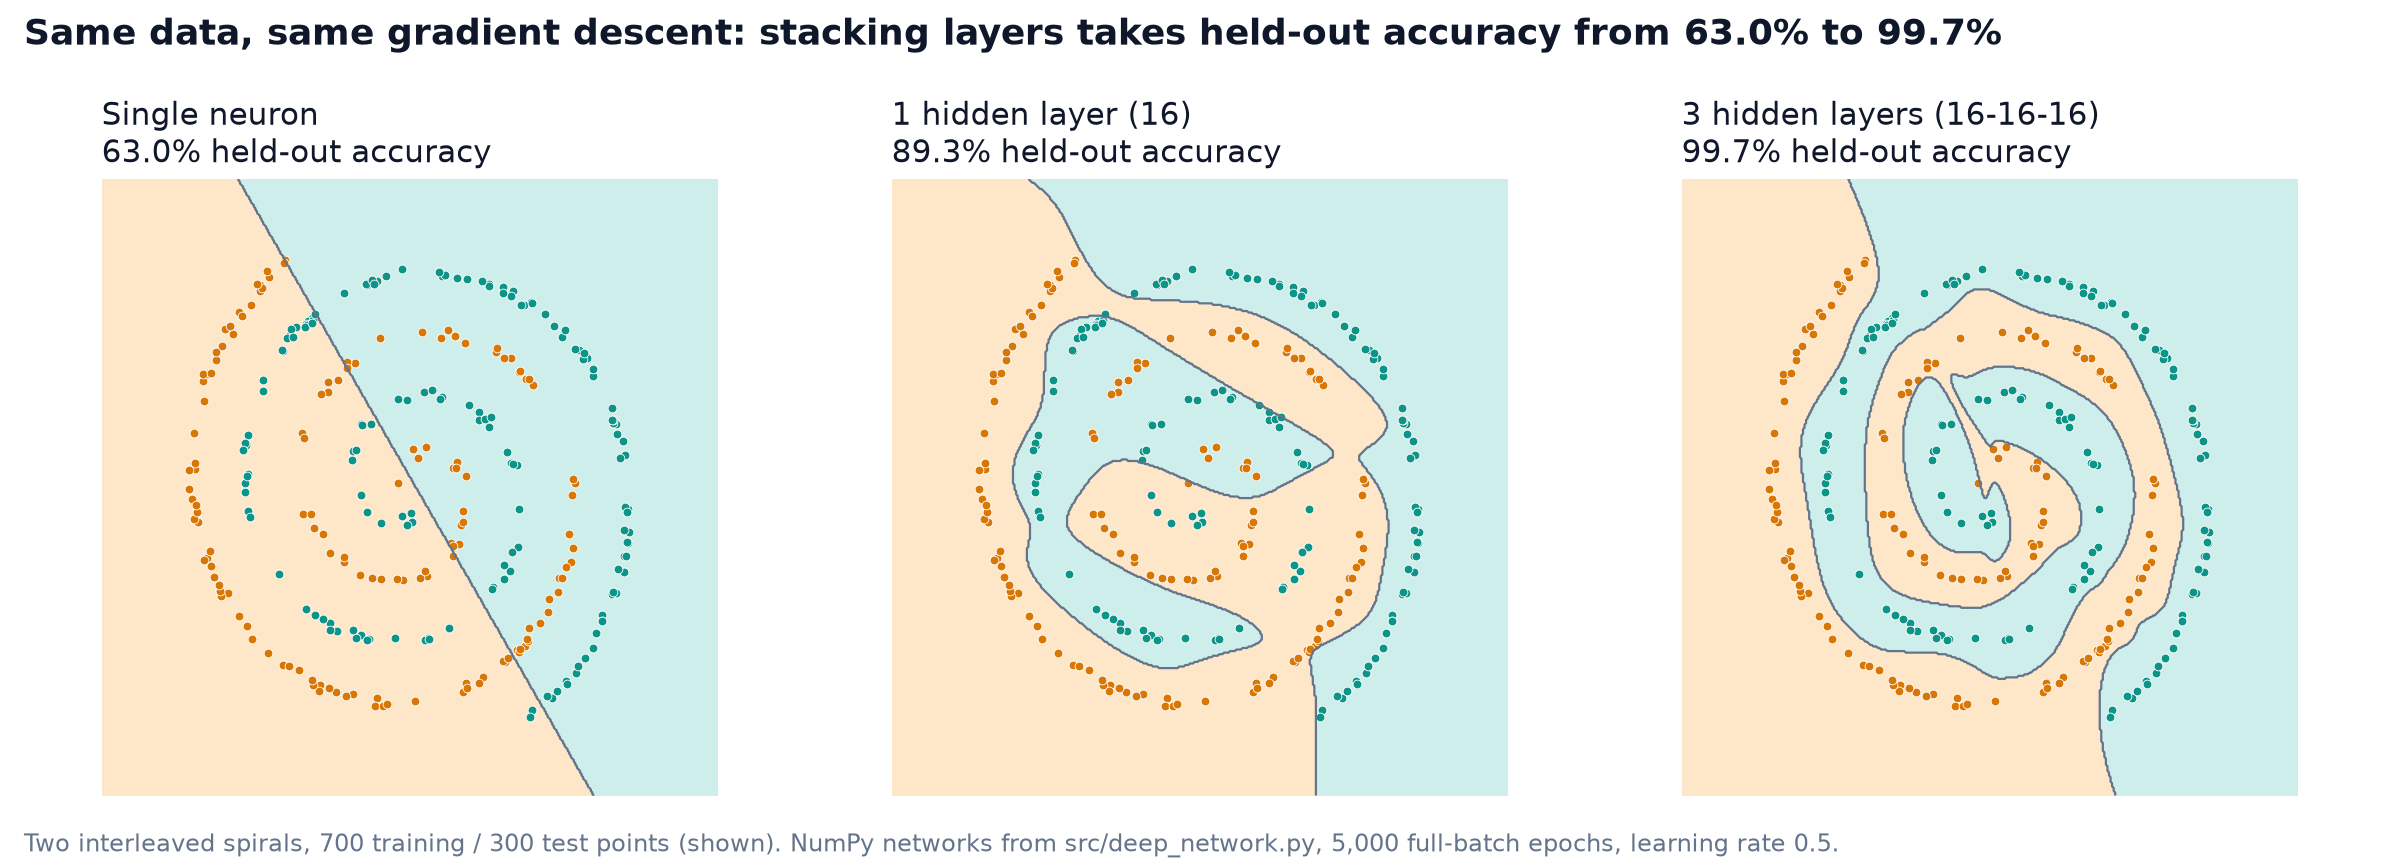
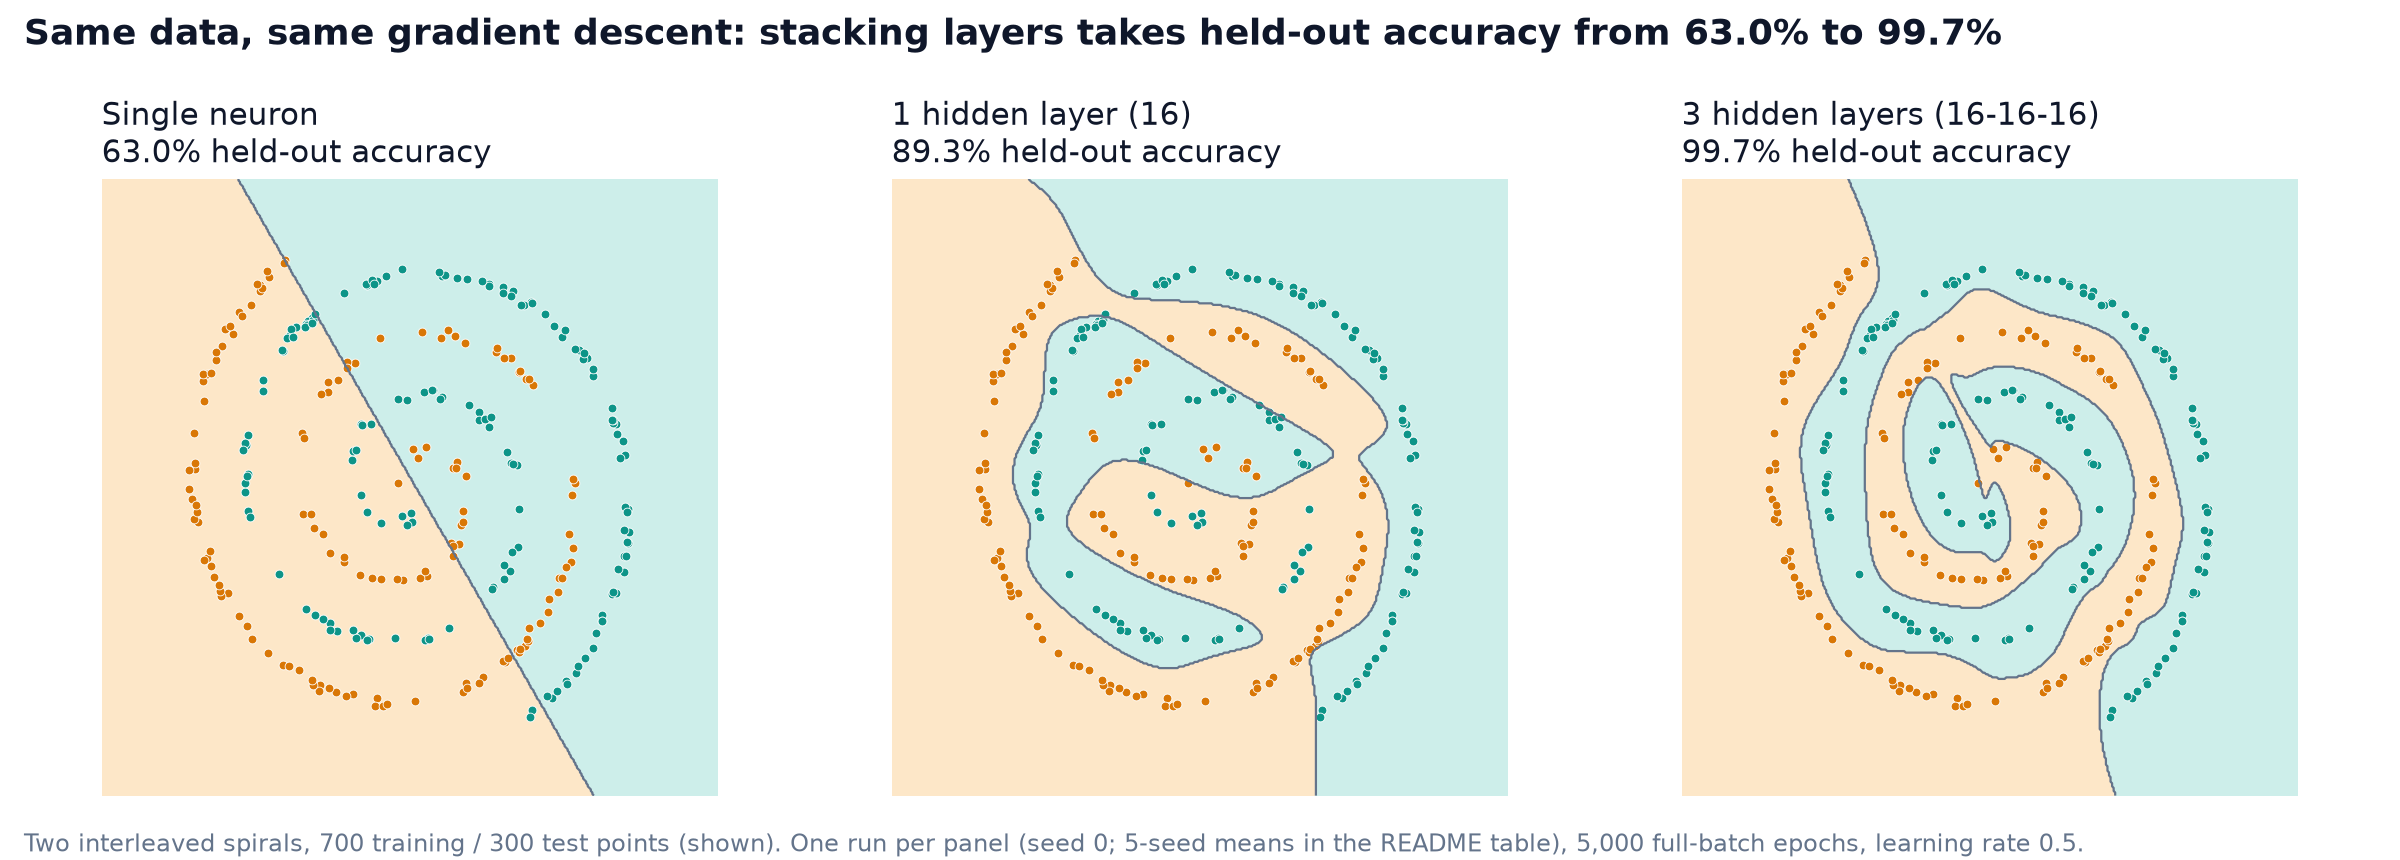
docs: mark the hero spiral numbers as seed 0 and quote the 5-seed means next to them

Changed region(s): [[0.3125, 0.9674, 0.875, 0.9977]]

diff --git a/README.md b/README.md
@@ -7,7 +7,7 @@ every gradient derived on paper, coded by hand, and checked against finite diffe
 ![Python 3.12](https://img.shields.io/badge/python-3.12-0d9488)
 [![License: MIT](https://img.shields.io/badge/license-MIT-64748b)](LICENSE)
 
-![Decision boundaries on two interleaved spirals: a single neuron reaches 63.0% held-out accuracy, one hidden layer 89.3%, three hidden layers 99.7%](docs/figures/hero_spirals.png)
+![Decision boundaries on two interleaved spirals, one run each (seed 0): a single neuron reaches 63.0% held-out accuracy, one hidden layer 89.3%, three hidden layers 99.7%](docs/figures/hero_spirals.png)
 
 ## TL;DR
 
@@ -17,7 +17,9 @@ every gradient derived on paper, coded by hand, and checked against finite diffe
   the L-layer code with the single neuron of Episode III and the two-layer network of Episode VI.
 - **Hidden layers bend the boundary.** On two interleaved spirals (300 held-out points), the
   same 5,000 epochs of gradient descent take accuracy from 63.0% for a single neuron to 89.3%
-  with one hidden layer of 16 units (65 parameters) and 99.7% with three (609 parameters).
+  with one hidden layer of 16 units (65 parameters) and 99.7% with three (609 parameters) in
+  the seed-0 runs of the figure; over five seeds those two networks average 89.1% (82.7–95.0)
+  and 99.4% (99.0–99.7).
 - **Depth buys training speed here, not capacity.** In those 5,000 epochs two layers of 16
   units reach 99.1% over five seeds (337 parameters, worst seed 98.7%), while no single hidden
   layer beats 95.7% (32 units); at 128 and 256 units, with as many parameters as the deep
